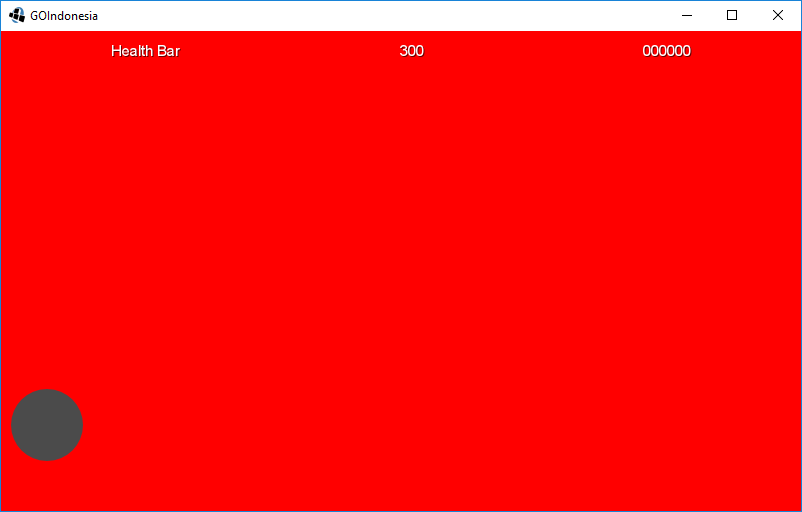
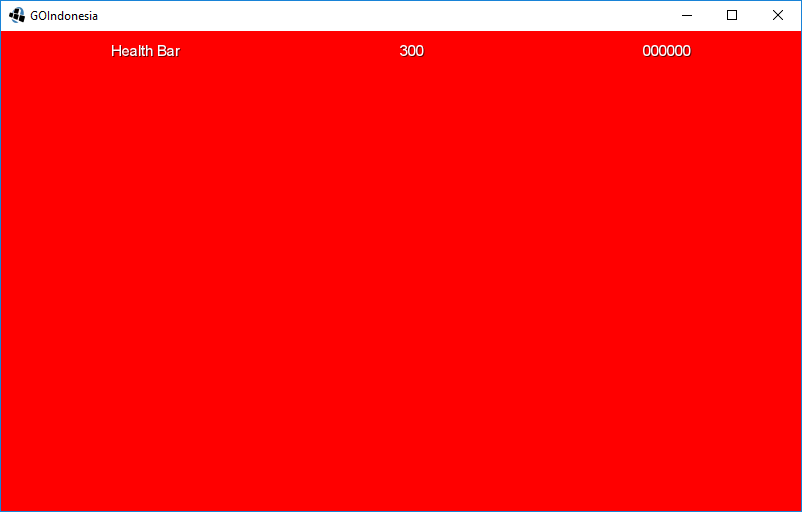
Update viewport & HUD

Changed region(s): [[0.0, 0.75, 0.1247, 0.9062]]

diff --git a/core/src/com/mobcom/goindonesia/Scenes/Hud.java b/core/src/com/mobcom/goindonesia/Scenes/Hud.java
@@ -44,18 +44,12 @@ public class Hud {
 
         countdownLabel = new Label(String.format("Health Bar", worldTimer), new Label.LabelStyle(new BitmapFont(), Color.WHITE));
         scoreLabel = new Label(String.format("%06d", score), new Label.LabelStyle(new BitmapFont(), Color.WHITE));
-        timeLabel = new Label("TIME", new Label.LabelStyle(new BitmapFont(), Color.WHITE));
         levelLabel = new Label("300", new Label.LabelStyle(new BitmapFont(), Color.WHITE));
-        worldLabel = new Label("Years", new Label.LabelStyle(new BitmapFont(), Color.WHITE));
-        gameLabel = new Label("LEONARD", new Label.LabelStyle(new BitmapFont(), Color.WHITE));
 
         table.add(countdownLabel).expandX().padTop(10);
         table.add(levelLabel).expandX().padTop(10);
         table.add(scoreLabel).expandX().padTop(10);
         table.row();
-        //table.add(timeLabel).expandX().padTop(10);
-        //table.add(worldLabel).expandX();
-        //table.add(gameLabel).expandX().padTop(10);
 
         stage.addActor(table);
 

diff --git a/core/src/com/mobcom/goindonesia/Screens/PlayScreen.java b/core/src/com/mobcom/goindonesia/Screens/PlayScreen.java
@@ -55,7 +55,7 @@ public class PlayScreen implements Screen{
         hud.stage.draw();
 
         game.batch.begin();
-        game.ball.draw(game.batch);
+        //game.ball.draw(game.batch);
 
 
         if(Gdx.input.isTouched()){

diff --git a/README.md b/README.md
@@ -21,7 +21,9 @@ Pada percobaan ini, saya mencoba 2 Viewport yaitu ScretchViewport dan FitViewpor
 ## Head-Up Display
 Untuk membuat HUD, kami menggunakan table yang kami letakkan di bagian atas.
 
-![alt text](https://github.com/ardiansyah97/MobileComputing/raw/master/img/table_top.png "Fit Viewport")
+![alt text](https://github.com/ardiansyah97/MobileComputing/raw/master/img/table_top.png "Table")
+
+![alt text](https://github.com/ardiansyah97/MobileComputing/raw/master/img/hud.png "HUD")
 
 ## Touch Input
 Untuk mendapatkan input user, dalam hal ini menggunakan touch / klik pada mouse. Kami mencobanya menggunakan library Gdx.input. 
@@ -40,7 +42,7 @@ Pada percobaan ini, kami memberikan batasan touch pada sisi kiri dan kanan layar
 
 >setPosition(ball.getX() + 10, ball.getY()); //ini akan bergeser ke kanan (ketika layar sebelah kanan di touch)
 
-![alt text](https://github.com/ardiansyah97/MobileComputing/raw/master/img/hud.png "Before Clicked/Touched")
+![alt text](https://github.com/ardiansyah97/MobileComputing/raw/master/img/before_move.png "Before Clicked/Touched")
 
 ![alt text](https://github.com/ardiansyah97/MobileComputing/raw/master/img/move.png "After Clicked/Touched")
 
